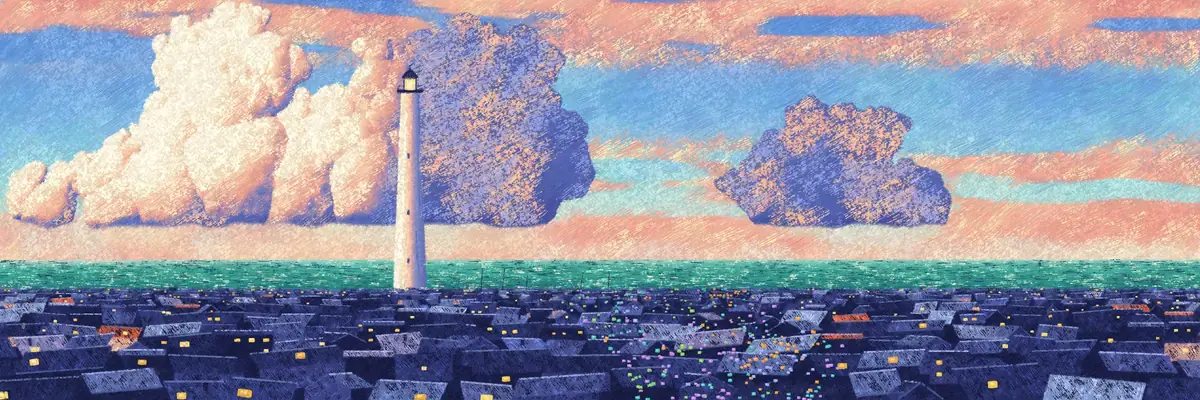
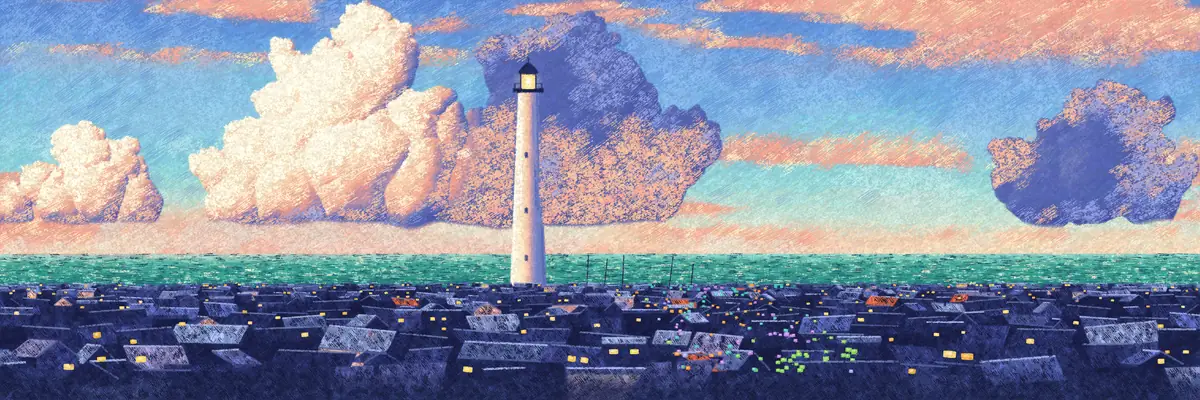
Footer: use the finished wide render of the lighthouse painting
Replaces the draft band with the art session's final 3 to 1 render and
a 4 to 3 phone crop from its 2 to 1 render. The lighthouse sits 44
percent from the left.

diff --git a/src/data/footerScenes.ts b/src/data/footerScenes.ts
@@ -21,7 +21,7 @@ const scenes = {
     alt: "A pastel painting of a white lighthouse above the dark roofs of a town by the sea, under large sunlit clouds. Some of the town's windows glow in five colours.",
     width: 2400,
     height: 800,
-    focus: "34% 50%",
+    focus: "44% 50%",
   },
 } satisfies Record<string, FooterScene>;
 
